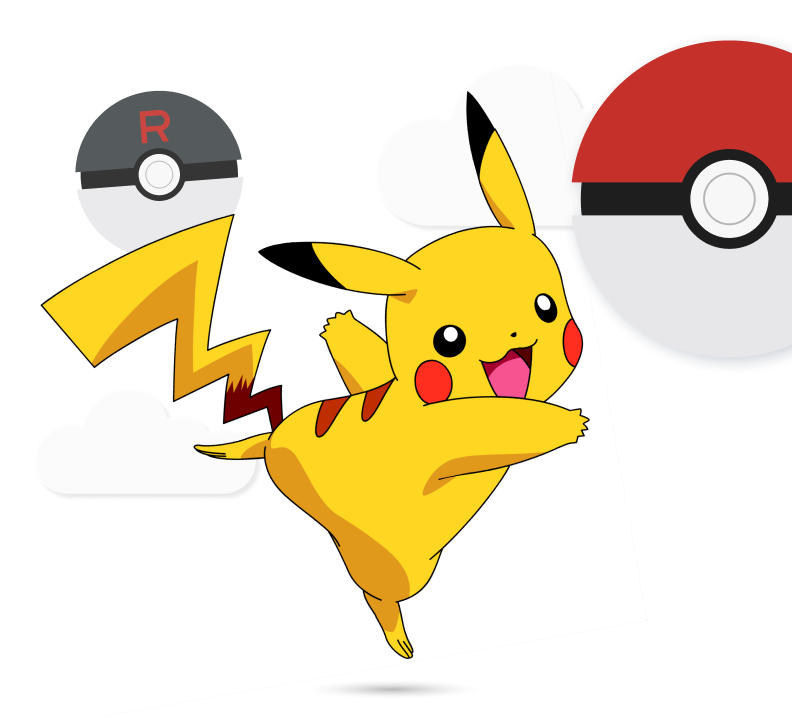
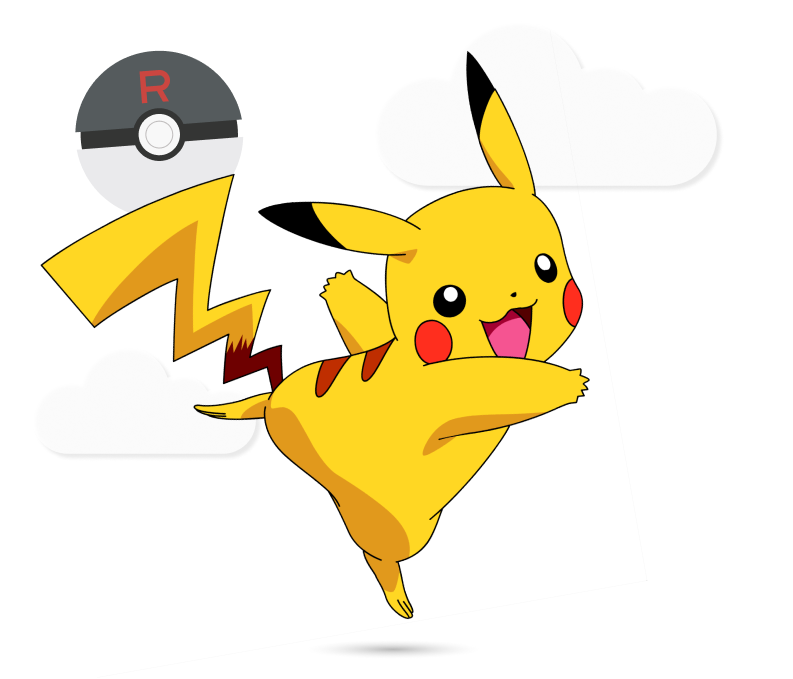
Corrigida a responsividade

diff --git a/src/components/Body/index.jsx b/src/components/Body/index.jsx
@@ -1,23 +1,30 @@
 import React from "react";
-import banner from "../../assets/banner.png"
+import { Link } from "react-router-dom";
+import banner from "../../assets/banner.png";
 import style from "./Body.module.css";
 
-
 const Body = () => {
-  return   <>
-             <div className={style.corpo}>
-              <div className={style.sec}>
-                <p className={style.find}><strong>Find</strong> All Your favorite <strong>Pokemon</strong></p>
-                <p className={style.type}>You can know the type of Pokemon, its strengths, disadvantages and abilities</p>
-                <button className={style.botao}>See pokemons</button>
-                <p className={style.make}>Make with ❤ for the PokéSpartans team Platzi Master</p>
-              </div>
-              <div className={style.secti}>
-              <img className={style.banner} src={banner} alt="logo" />  
-              <p className={style.team}>Ours Team</p>
-              </div>
-              </div>  
-  </>
+  return (
+    <>
+      <div className={style.corpo}>
+        <div className={`container ${style.corpo}`}>
+          <div className={style.sec}>
+            <p className={style.find}>
+              <strong>Find</strong> all your favorite <strong>Pokémon</strong>
+            </p>
+            <p className={style.type}>
+              You can know the type of Pokemon, its strengths, disadvantages and
+              abilities
+            </p>
+            <Link to={"/pokedex"} className={style.botao}>See pokemons</Link>
+          </div>
+          <div className={style.secti}>
+            <img className={style.banner} src={banner} alt="logo" />
+          </div>
+        </div>
+      </div>
+    </>
+  );
 };
 
 export default Body;

diff --git a/src/components/Body/Body.module.css b/src/components/Body/Body.module.css
@@ -1,55 +1,43 @@
 .corpo {
   width: 100%;
+  min-height: 100vh;
   background: linear-gradient(180deg, #f5db13 0%, #f2b807 100%);
-  display: flex;
+  display: grid;
+  grid-template-columns: repeat(auto-fit, minmax(375px, 1fr));
+  place-items: center;
 }
 
 .sec {
-  width: 50%;
-  padding-top: 5%;
-  padding-left: 5%;
-  height: 822px;
-}
-
-.secti {
- padding-top: -5%;
-  width: 50%;
+  display: flex;
+  flex-direction: column;
+  align-items: flex-start;
+  gap: var(--s5);
 }
 
 .find {
-  padding-left: 20%;
-  font-size: 72px;
+  font-size: 3.75rem;
+  font-weight: 400;
+  text-align: left;
 }
 
 .type {
-  padding-left: 20%;
-  padding-top: 10%;
-  font-size: 32px;
+  font-size: var(--h2);
+  font-weight: 400;
+  text-align: left;
 }
 
 .botao {
-  font-weight: bold;
-  margin-left: 20%;
-  margin-top: 10%;
-  font-size: 23px;
-  border-radius: 11px;
-  height: 66px;
-  width: 220px;
   border: none;
-  color: black;
-  background-color: #73d677;
-  box-shadow: inset 0px -9px 0px rgba(0, 0, 0, 0.18);
-  padding-bottom: 2%;
+  padding: 8px 16px;
+  font-size: var(--h3);
+  font-weight: 600;
+  border-radius: 8px;
+  background-color: var(--color-green);
+  border-bottom: 4px solid var(--pk-grass);
+  cursor: pointer;
+  margin-bottom: 14px;
 }
-.make {
-  padding-top: 8%;
-  padding-left: 10%;
-}
-.banner {
-  height: 655px;
-}
-.team{
-    padding-left: 70%;
-    padding-top: 10%;
 
+.banner {
+  width: 100%;
 }

diff --git a/src/index.css b/src/index.css
@@ -25,6 +25,7 @@ code {
   --color-danger: #D93E30;
   --color-white: #F6F7F9;
   --color-dark: #212121;
+  --color-green: #73D677;
 
   --pk-dark: #A1A1A1;
   --pk-grass: #70A83B;
